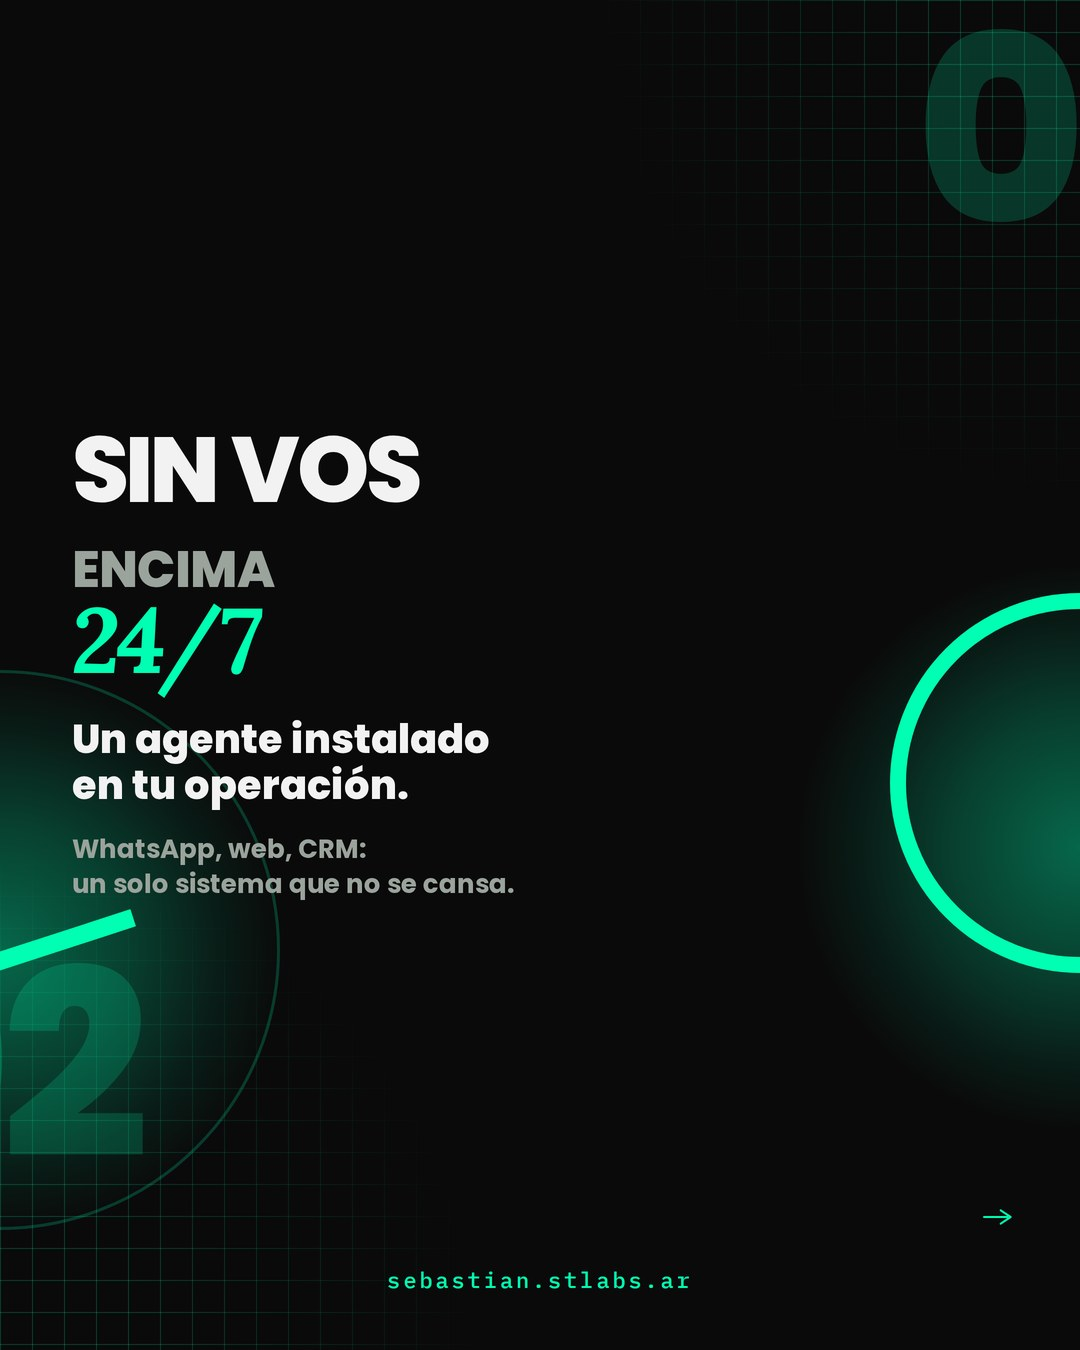
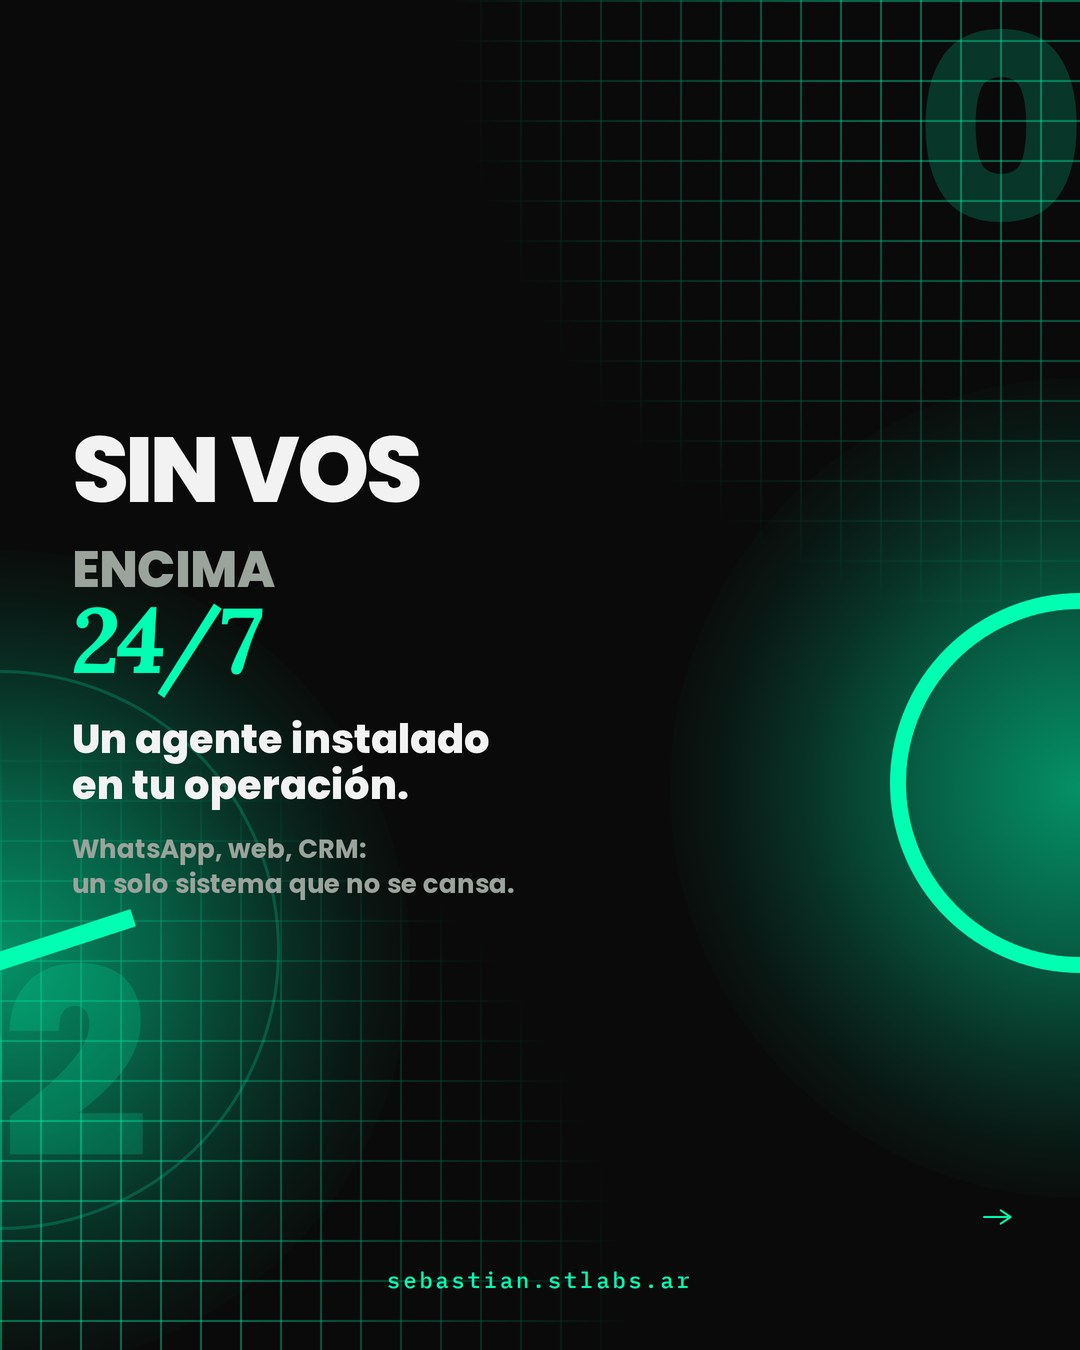
Fondo más notorio: manchas y cuadrícula más grandes
Manchas ~820px con mayor opacidad; retícula más gruesa y
extendida en las esquinas.

diff --git a/builds/2026-08-16-frases-continuidad/carrusel-standalone.html b/builds/2026-08-16-frases-continuidad/carrusel-standalone.html
@@ -23,36 +23,37 @@ html, body { background:#000; }
 .tex::after {
   content:''; position:absolute; inset:0; pointer-events:none;
   background-image:
-    linear-gradient(rgba(0,255,178,.20) 1px, transparent 1px),
-    linear-gradient(90deg, rgba(0,255,178,.20) 1px, transparent 1px);
-  background-size:32px 32px;
+    linear-gradient(rgba(0,255,178,.38) 2px, transparent 2px),
+    linear-gradient(90deg, rgba(0,255,178,.38) 2px, transparent 2px);
+  background-size:40px 40px;
 }
-/* Cuadrícula más notoria — esquina superior derecha */
+/* Cuadrícula más grande y notoria — esquina superior derecha */
 .tex::before {
-  -webkit-mask-image: radial-gradient(ellipse 58% 48% at 100% 0%, #000 25%, transparent 78%);
-  mask-image: radial-gradient(ellipse 58% 48% at 100% 0%, #000 25%, transparent 78%);
+  -webkit-mask-image: radial-gradient(ellipse 72% 58% at 100% 0%, #000 30%, transparent 82%);
+  mask-image: radial-gradient(ellipse 72% 58% at 100% 0%, #000 30%, transparent 82%);
 }
-/* Cuadrícula más notoria — esquina inferior izquierda */
+/* Cuadrícula más grande y notoria — esquina inferior izquierda */
 .tex::after {
-  -webkit-mask-image: radial-gradient(ellipse 58% 48% at 0% 100%, #000 25%, transparent 78%);
-  mask-image: radial-gradient(ellipse 58% 48% at 0% 100%, #000 25%, transparent 78%);
+  -webkit-mask-image: radial-gradient(ellipse 72% 58% at 0% 100%, #000 30%, transparent 82%);
+  mask-image: radial-gradient(ellipse 72% 58% at 0% 100%, #000 30%, transparent 82%);
 }
 
-/* Manchas verdes continuas entre slides (centro en la costura) */
+/* Manchas verdes grandes y continuas entre slides */
 .stain {
   position:absolute; z-index:0; pointer-events:none;
-  width:560px; height:560px; border-radius:50%;
+  width:820px; height:820px; border-radius:50%;
   background: radial-gradient(circle at 50% 50%,
-    rgba(0,255,178,.38) 0%,
-    rgba(0,255,178,.22) 32%,
-    rgba(0,255,178,.08) 55%,
-    transparent 72%);
+    rgba(0,255,178,.55) 0%,
+    rgba(0,255,178,.34) 28%,
+    rgba(0,255,178,.16) 48%,
+    rgba(0,255,178,.06) 62%,
+    transparent 74%);
 }
-.stain-out { right:-280px; }
-.stain-in  { left:-280px; }
-.stain-hi  { top:40px; }
-.stain-lo  { bottom:120px; }
-.stain-mid { top:42%; }
+.stain-out { right:-410px; }
+.stain-in  { left:-410px; }
+.stain-hi  { top:-40px; }
+.stain-lo  { bottom:-20px; }
+.stain-mid { top:28%; }
 
 .seam-num {
   position:absolute; z-index:2; pointer-events:none;

diff --git a/resultados/2026-08-16-frases-continuidad/carrusel-standalone.html b/resultados/2026-08-16-frases-continuidad/carrusel-standalone.html
@@ -23,36 +23,37 @@ html, body { background:#000; }
 .tex::after {
   content:''; position:absolute; inset:0; pointer-events:none;
   background-image:
-    linear-gradient(rgba(0,255,178,.20) 1px, transparent 1px),
-    linear-gradient(90deg, rgba(0,255,178,.20) 1px, transparent 1px);
-  background-size:32px 32px;
+    linear-gradient(rgba(0,255,178,.38) 2px, transparent 2px),
+    linear-gradient(90deg, rgba(0,255,178,.38) 2px, transparent 2px);
+  background-size:40px 40px;
 }
-/* Cuadrícula más notoria — esquina superior derecha */
+/* Cuadrícula más grande y notoria — esquina superior derecha */
 .tex::before {
-  -webkit-mask-image: radial-gradient(ellipse 58% 48% at 100% 0%, #000 25%, transparent 78%);
-  mask-image: radial-gradient(ellipse 58% 48% at 100% 0%, #000 25%, transparent 78%);
+  -webkit-mask-image: radial-gradient(ellipse 72% 58% at 100% 0%, #000 30%, transparent 82%);
+  mask-image: radial-gradient(ellipse 72% 58% at 100% 0%, #000 30%, transparent 82%);
 }
-/* Cuadrícula más notoria — esquina inferior izquierda */
+/* Cuadrícula más grande y notoria — esquina inferior izquierda */
 .tex::after {
-  -webkit-mask-image: radial-gradient(ellipse 58% 48% at 0% 100%, #000 25%, transparent 78%);
-  mask-image: radial-gradient(ellipse 58% 48% at 0% 100%, #000 25%, transparent 78%);
+  -webkit-mask-image: radial-gradient(ellipse 72% 58% at 0% 100%, #000 30%, transparent 82%);
+  mask-image: radial-gradient(ellipse 72% 58% at 0% 100%, #000 30%, transparent 82%);
 }
 
-/* Manchas verdes continuas entre slides (centro en la costura) */
+/* Manchas verdes grandes y continuas entre slides */
 .stain {
   position:absolute; z-index:0; pointer-events:none;
-  width:560px; height:560px; border-radius:50%;
+  width:820px; height:820px; border-radius:50%;
   background: radial-gradient(circle at 50% 50%,
-    rgba(0,255,178,.38) 0%,
-    rgba(0,255,178,.22) 32%,
-    rgba(0,255,178,.08) 55%,
-    transparent 72%);
+    rgba(0,255,178,.55) 0%,
+    rgba(0,255,178,.34) 28%,
+    rgba(0,255,178,.16) 48%,
+    rgba(0,255,178,.06) 62%,
+    transparent 74%);
 }
-.stain-out { right:-280px; }
-.stain-in  { left:-280px; }
-.stain-hi  { top:40px; }
-.stain-lo  { bottom:120px; }
-.stain-mid { top:42%; }
+.stain-out { right:-410px; }
+.stain-in  { left:-410px; }
+.stain-hi  { top:-40px; }
+.stain-lo  { bottom:-20px; }
+.stain-mid { top:28%; }
 
 .seam-num {
   position:absolute; z-index:2; pointer-events:none;

diff --git a/resultados/2026-08-16-frases-continuidad/carrusel.html b/resultados/2026-08-16-frases-continuidad/carrusel.html
@@ -23,36 +23,37 @@ html, body { background:#000; }
 .tex::after {
   content:''; position:absolute; inset:0; pointer-events:none;
   background-image:
-    linear-gradient(rgba(0,255,178,.20) 1px, transparent 1px),
-    linear-gradient(90deg, rgba(0,255,178,.20) 1px, transparent 1px);
-  background-size:32px 32px;
+    linear-gradient(rgba(0,255,178,.38) 2px, transparent 2px),
+    linear-gradient(90deg, rgba(0,255,178,.38) 2px, transparent 2px);
+  background-size:40px 40px;
 }
-/* Cuadrícula más notoria — esquina superior derecha */
+/* Cuadrícula más grande y notoria — esquina superior derecha */
 .tex::before {
-  -webkit-mask-image: radial-gradient(ellipse 58% 48% at 100% 0%, #000 25%, transparent 78%);
-  mask-image: radial-gradient(ellipse 58% 48% at 100% 0%, #000 25%, transparent 78%);
+  -webkit-mask-image: radial-gradient(ellipse 72% 58% at 100% 0%, #000 30%, transparent 82%);
+  mask-image: radial-gradient(ellipse 72% 58% at 100% 0%, #000 30%, transparent 82%);
 }
-/* Cuadrícula más notoria — esquina inferior izquierda */
+/* Cuadrícula más grande y notoria — esquina inferior izquierda */
 .tex::after {
-  -webkit-mask-image: radial-gradient(ellipse 58% 48% at 0% 100%, #000 25%, transparent 78%);
-  mask-image: radial-gradient(ellipse 58% 48% at 0% 100%, #000 25%, transparent 78%);
+  -webkit-mask-image: radial-gradient(ellipse 72% 58% at 0% 100%, #000 30%, transparent 82%);
+  mask-image: radial-gradient(ellipse 72% 58% at 0% 100%, #000 30%, transparent 82%);
 }
 
-/* Manchas verdes continuas entre slides (centro en la costura) */
+/* Manchas verdes grandes y continuas entre slides */
 .stain {
   position:absolute; z-index:0; pointer-events:none;
-  width:560px; height:560px; border-radius:50%;
+  width:820px; height:820px; border-radius:50%;
   background: radial-gradient(circle at 50% 50%,
-    rgba(0,255,178,.38) 0%,
-    rgba(0,255,178,.22) 32%,
-    rgba(0,255,178,.08) 55%,
-    transparent 72%);
+    rgba(0,255,178,.55) 0%,
+    rgba(0,255,178,.34) 28%,
+    rgba(0,255,178,.16) 48%,
+    rgba(0,255,178,.06) 62%,
+    transparent 74%);
 }
-.stain-out { right:-280px; }
-.stain-in  { left:-280px; }
-.stain-hi  { top:40px; }
-.stain-lo  { bottom:120px; }
-.stain-mid { top:42%; }
+.stain-out { right:-410px; }
+.stain-in  { left:-410px; }
+.stain-hi  { top:-40px; }
+.stain-lo  { bottom:-20px; }
+.stain-mid { top:28%; }
 
 .seam-num {
   position:absolute; z-index:2; pointer-events:none;

diff --git a/builds/2026-08-16-frases-continuidad/generate.py b/builds/2026-08-16-frases-continuidad/generate.py
@@ -172,36 +172,37 @@ html, body {{ background:#000; }}
 .tex::after {{
   content:''; position:absolute; inset:0; pointer-events:none;
   background-image:
-    linear-gradient(rgba(0,255,178,.20) 1px, transparent 1px),
-    linear-gradient(90deg, rgba(0,255,178,.20) 1px, transparent 1px);
-  background-size:32px 32px;
+    linear-gradient(rgba(0,255,178,.38) 2px, transparent 2px),
+    linear-gradient(90deg, rgba(0,255,178,.38) 2px, transparent 2px);
+  background-size:40px 40px;
 }}
-/* Cuadrícula más notoria — esquina superior derecha */
+/* Cuadrícula más grande y notoria — esquina superior derecha */
 .tex::before {{
-  -webkit-mask-image: radial-gradient(ellipse 58% 48% at 100% 0%, #000 25%, transparent 78%);
-  mask-image: radial-gradient(ellipse 58% 48% at 100% 0%, #000 25%, transparent 78%);
+  -webkit-mask-image: radial-gradient(ellipse 72% 58% at 100% 0%, #000 30%, transparent 82%);
+  mask-image: radial-gradient(ellipse 72% 58% at 100% 0%, #000 30%, transparent 82%);
 }}
-/* Cuadrícula más notoria — esquina inferior izquierda */
+/* Cuadrícula más grande y notoria — esquina inferior izquierda */
 .tex::after {{
-  -webkit-mask-image: radial-gradient(ellipse 58% 48% at 0% 100%, #000 25%, transparent 78%);
-  mask-image: radial-gradient(ellipse 58% 48% at 0% 100%, #000 25%, transparent 78%);
+  -webkit-mask-image: radial-gradient(ellipse 72% 58% at 0% 100%, #000 30%, transparent 82%);
+  mask-image: radial-gradient(ellipse 72% 58% at 0% 100%, #000 30%, transparent 82%);
 }}
 
-/* Manchas verdes continuas entre slides (centro en la costura) */
+/* Manchas verdes grandes y continuas entre slides */
 .stain {{
   position:absolute; z-index:0; pointer-events:none;
-  width:560px; height:560px; border-radius:50%;
+  width:820px; height:820px; border-radius:50%;
   background: radial-gradient(circle at 50% 50%,
-    rgba(0,255,178,.38) 0%,
-    rgba(0,255,178,.22) 32%,
-    rgba(0,255,178,.08) 55%,
-    transparent 72%);
+    rgba(0,255,178,.55) 0%,
+    rgba(0,255,178,.34) 28%,
+    rgba(0,255,178,.16) 48%,
+    rgba(0,255,178,.06) 62%,
+    transparent 74%);
 }}
-.stain-out {{ right:-280px; }}
-.stain-in  {{ left:-280px; }}
-.stain-hi  {{ top:40px; }}
-.stain-lo  {{ bottom:120px; }}
-.stain-mid {{ top:42%; }}
+.stain-out {{ right:-410px; }}
+.stain-in  {{ left:-410px; }}
+.stain-hi  {{ top:-40px; }}
+.stain-lo  {{ bottom:-20px; }}
+.stain-mid {{ top:28%; }}
 
 .seam-num {{
   position:absolute; z-index:2; pointer-events:none;
